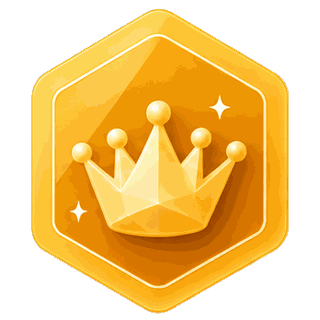
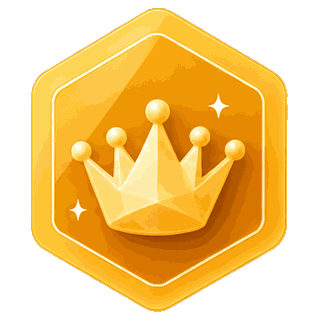
Every badge is now the same hexagon, and the cut is a script
── The second sheet was drawing a narrower hexagon ──

Measured off the shipped PNGs rather than the crop numbers: sheet 1 renders the
badge at 257 x 304 and sheet 2 at 246 x 300. That is 4.6% narrower at the same
height, and in a grid it reads exactly as it was described - the second ten
looked stretched vertically.

There was a second, smaller version of the same problem hiding inside each
sheet: within sheet 1 the badges ranged 253 to 259 wide.

So the silhouette is measured per badge and resampled to ONE canonical box,
257 x 304 inside a 320px square. Verified after: all twenty are exactly 257
wide, and the 1px spread in height is the alpha threshold catching an
antialiased tip, not geometry.

257 x 304 is an aspect of 0.845 where a regular hexagon is 0.866. Keeping sheet
1's own measurement rather than snapping to the maths: 2.4% is below what
anyone can see, and matching the art that was signed off on matters more than
being correct about hexagons.

── The cut is scripts/cut-badges.py now ──

It has been run three times and given a different answer each time, which is
the argument for it existing. It also carries the reason each of the three
differences exists, because none of them are guessable from the code:

  - sheet 1 cuts on edge magnitude, because it came back on a smooth dark
    bloom and the badge boundary is hard against it;
  - sheet 2 cuts on saturation, because it came back on a PAINTED checkerboard
[…]

diff --git a/scripts/cut-badges.py b/scripts/cut-badges.py
@@ -1,0 +1,203 @@
+"""
+Cut the badge artwork out of the generated sheets.
+
+Run:  python scripts/cut-badges.py <sheet-1.png> <sheet-2.png>
+
+── Why this is a script and not a one-off ──
+
+It has been run three times and got a different answer each time, because the
+two sheets came back with different problems and the third run had to make
+them agree with each other. That is exactly the thing worth keeping.
+
+── The two sheets failed differently ──
+
+Neither came back transparent, and the same recipe does not cut both.
+
+Sheet 1 arrived on a dark coloured BLOOM. The badge has a hard boundary and the
+bloom is smooth, so it cuts on edge magnitude.
+
+Sheet 2 arrived on a PAINTED checkerboard - the model drew the transparency
+pattern instead of leaving the alpha empty. Every checker square has an edge,
+so sheet 1's method finds nothing. It cuts on saturation instead: measured, the
+checkerboard runs 1-2 and the badge bodies 44-132.
+
+Both then take the span between the first and last hit in every row and every
+column and intersect the two. A hexagon is convex, so that describes it exactly
+- including the real rounded tips, which a hand-built polygon kept clipping -
+and it fills back in the parts that are deliberately near-white and would
+otherwise punch holes in their own badge: the coin stack, the target's pale
+rings, the diamond.
+
+── Sheet 2 needs an erosion and sheet 1 does not ──
+
+On a dark bloom the antialiased rim blends toward black, so the leftover fringe
+is invisible on a dark UI. On a near-white checkerboard the same fringe is
+BRIGHT - measured at luminance 238 against a 151 body - and reads as a halo
+around every badge. Eroding removes the blended ring rather than trying to
+unmix it. Measured at 0, 2, 3 and 4: at 3 the bleed is gone and the first
+surviving pixel is the badge's own frosted rim.
+
+── One canonical box, which is the point of the third run ──
+
+The sheets do not draw the badge at the same proportions. Sheet 1 came out
+257 x 304 and sheet 2 246 x 300 - 4.6% narrower - and in a grid that reads as
+the second set being stretched vertically, which is what got noticed.
+
+So the silhouette is measured per badge and resampled to ONE box. That also
+irons out the 6px of variation between badges within a sheet. Nothing here
+depends on the sheets being consistent, which is just as well, because they
+are not.
+"""
+import os
+import sys
+
+import numpy as np
+from PIL import Image, ImageFilter
+
+OUT = os.path.join('src', 'assets', 'badges')
+
+# Reading order of each sheet, left to right and top row first.
+SHEET1 = ['first-peso', 'seven-days', 'century', 'under-budget', 'green-month',
+          'goal-funded', 'debt-cleared', 'on-autopilot', 'diversified', 'six-figures']
+SHEET2 = ['thirty-days', 'five-hundred', 'year-one', 'steady-three', 'budget-master',
+          'no-spend-week', 'rainy-day', 'debt-free', 'three-goals', 'seven-figures']
+
+# The canonical rendered badge, inside a 320px square.
+#
+# 257 x 304 is sheet 1's own measured average, kept because that set is the one
+# the proportions were signed off on. It is an aspect of 0.845 against a regular
+# hexagon's 0.866 - a 2.4% difference, which is below what anyone can see, and
+# matching the existing art matters more than matching the maths.
+CANVAS = 320
+BADGE_W, BADGE_H = 257, 304
+
+SS = 4          # supersample factor for the mask's antialiasing
+FINAL_COLORS = 255   # one palette slot is reserved for full transparency
+
+
+def find_badges(mask, rows=2, cols=5, min_run=40):
+    """Locate each badge as a run of mask in the row band, then in the column.
+
+    Scanned globally rather than per grid cell: the badges on sheet 2 sit only
+    19px apart and several touch their nominal cell boundary, so slicing the
+    image into fifths finds pieces of two badges in one cell.
+    """
+    def runs(counts):
+        on = counts > 3
+        out, start = [], None
+        for i, hit in enumerate(on):
+            if hit and start is None:
+                start = i
+            elif not hit and start is not None:
+                if i - start >= min_run:
+                    out.append((start, i - 1))
+                start = None
+        if start is not None and len(on) - start >= min_run:
+            out.append((start, len(on) - 1))
+        return out
+
+    bands = runs(mask.sum(axis=1))
+    if len(bands) != rows:
+        raise SystemExit(f'expected {rows} row bands, found {len(bands)}')
+
+    boxes = []
+    for y0, y1 in bands:
+        spans = runs(mask[y0:y1 + 1].sum(axis=0))
+        if len(spans) != cols:
+            raise SystemExit(f'expected {cols} badges in a row, found {len(spans)}')
+        for x0, x1 in spans:
+            ys = np.where(mask[y0:y1 + 1, x0:x1 + 1].sum(axis=1) > 3)[0]
+            boxes.append((x0, y0 + ys[0], x1, y0 + ys[-1]))
+    return boxes
+
+
+def coarse_mask(rgb, method):
+    """Where the badges are, roughly - enough to locate them on the sheet."""
+    a = rgb.astype(np.float32)
+    if method == 'saturation':
+        return (a.max(axis=2) - a.min(axis=2)) > 12
+    grey = a.mean(axis=2)
+    ex = np.abs(np.diff(grey, axis=1, prepend=grey[:, :1]))
+    ey = np.abs(np.diff(grey, axis=0, prepend=grey[:1, :]))
+    return (ex + ey) > 14
+
+
+def silhouette(tile_rgb, method, erode):
+    """The badge's exact outline, as a boolean mask. See the module note."""
+    a = tile_rgb.astype(np.float32)
+    if method == 'saturation':
+        hit = (a.max(axis=2) - a.min(axis=2)) > 10
+    else:
+        grey = a.mean(axis=2)
+        ex = np.abs(np.diff(grey, axis=1, prepend=grey[:, :1]))
+        ey = np.abs(np.diff(grey, axis=0, prepend=grey[:1, :]))
+        hit = (ex + ey) > 12
+
+    h, w = hit.shape
+    rows = np.zeros_like(hit)
+    cols = np.zeros_like(hit)
+    for y in range(h):
+        xs = np.where(hit[y])[0]
+        if len(xs) >= 2:
+            rows[y, xs[0]:xs[-1] + 1] = True
+    for x in range(w):
+        ys = np.where(hit[:, x])[0]
+        if len(ys) >= 2:
+            cols[ys[0]:ys[-1] + 1, x] = True
+
+    img = Image.fromarray(((rows & cols) * 255).astype(np.uint8), 'L')
+    if erode:
+        img = img.filter(ImageFilter.MinFilter(erode * 2 + 1))
+    return img
+
+
+def cut_sheet(path, keys, method, erode, pad=14):
+    im = Image.open(path).convert('RGB')
+    rgb = np.asarray(im)
+    boxes = find_badges(coarse_mask(rgb, method))
+
+    for key, (x0, y0, x1, y1) in zip(keys, boxes):
+        # Pad the crop so the erosion and the blur have room to work in, and
+        # clamp to the sheet so a badge near the edge does not shift.
+        cx0, cy0 = max(0, x0 - pad), max(0, y0 - pad)
+        cx1, cy1 = min(im.width, x1 + pad + 1), min(im.height, y1 + pad + 1)
+        tile = im.crop((cx0, cy0, cx1, cy1))
+
+        m = silhouette(np.asarray(tile), method, erode)
+        w, h = m.size
+        m = (m.resize((w * SS, h * SS), Image.NEAREST)
+              .filter(ImageFilter.GaussianBlur(SS * 0.7))
+              .resize((w, h), Image.LANCZOS))
+        # Push the mid greys to opaque so the rim keeps its full colour, and
+        # clip the tail so no background survives as a faint halo.
+        alpha = np.clip((np.asarray(m).astype(np.float32) - 90) * (255 / 110), 0, 255)
+
+        cut = tile.convert('RGBA')
+        cut.putalpha(Image.fromarray(alpha.astype(np.uint8), 'L'))
+
+        # Trim to the silhouette, then resample to the canonical box. This is
+        # what makes every badge the same size regardless of how the sheet drew
+        # it - see the module note.
+        ys, xs = np.where(np.asarray(cut)[:, :, 3] > 40)
+        cut = cut.crop((xs.min(), ys.min(), xs.max() + 1, ys.max() + 1))
+        cut = cut.resize((BADGE_W, BADGE_H), Image.LANCZOS)
+
+        out = Image.new('RGBA', (CANVAS, CANVAS), (0, 0, 0, 0))
+        out.paste(cut, ((CANVAS - BADGE_W) // 2, (CANVAS - BADGE_H) // 2), cut)
+        # Each badge is one hue family, so 255 levels shows no banding - checked
+        # side by side against the un-quantised original.
+        out = out.quantize(colors=FINAL_COLORS, method=Image.FASTOCTREE).convert('RGBA')
+
+        dest = os.path.join(OUT, key + '.png')
+        out.save(dest, optimize=True)
+        print(f'{key:15s} {os.path.getsize(dest) // 1024:3d} KB')
+
+
+if __name__ == '__main__':
+    if len(sys.argv) != 3:
+        raise SystemExit(__doc__.strip().splitlines()[2])
+    os.makedirs(OUT, exist_ok=True)
+    print('sheet 1 - cut on edge magnitude, no erosion')
+    cut_sheet(sys.argv[1], SHEET1, method='edge', erode=0)
+    print('sheet 2 - cut on saturation, eroded 3px')
+    cut_sheet(sys.argv[2], SHEET2, method='saturation', erode=3)

diff --git a/BADGES.md b/BADGES.md
@@ -444,54 +444,48 @@ and the silhouette is the thing that makes ten badges read as one set.
 
 ## 4. How the art got in, in case you redo it
 
+It is a script now, because it has been run three times and got a different
+answer each time:
+
+```bash
+python scripts/cut-badges.py "<sheet-1.png>" "<sheet-2.png>"
+```
+
 **Neither sheet came back transparent, and they failed differently** — which is
-why there is no single cutting recipe.
+why there is no single recipe.
 
-**The first sheet** arrived on a dark coloured bloom. The badge has a hard
-boundary and the bloom is smooth, so it was cut on edge magnitude: threshold
-it, then take each row's and each column's span between the first and last
-strong edge. A hexagon is convex, so those two spans intersect to give the
-outline exactly — including the real rounded tips, which a hand-built polygon
-kept clipping.
+**Sheet 1** arrived on a dark coloured bloom. The badge has a hard boundary and
+the bloom is smooth, so it cuts on edge magnitude.
 
-**The second sheet** arrived on a *painted* checkerboard: ChatGPT drew the
-transparency pattern instead of leaving the alpha empty. Every checker square
-has an edge, so the first method was useless. Saturation replaced it — measured,
-the checkerboard runs 1–2 and the badge bodies 44–132 — with the same row and
-column spans on top, because the coin stack, the target's pale rings and the
-diamond are deliberately near-white and would otherwise punch holes in their
-own badges.
+**Sheet 2** arrived on a *painted* checkerboard: the model drew the transparency
+pattern instead of leaving the alpha empty. Every checker square has an edge, so
+sheet 1's method finds nothing. It cuts on saturation instead — measured, the
+checkerboard runs 1–2 and the badge bodies 44–132.
 
-It also needed a **3px erosion** that the first did not. On a dark bloom the
-antialiased rim blends toward black and the leftover fringe is invisible on a
-dark UI; on a near-white checkerboard the same fringe is *bright*, measured at
-luminance 238 against a 151 body, and it read as a halo around every badge.
-Eroding removes the blended ring rather than trying to unmix it. 3px off a
-341px badge is under 1%.
+Both then take the span between the first and last hit in every row and every
+column and intersect the two. A hexagon is convex, so that describes it exactly,
+including the real rounded tips — and it fills back in the parts that are
+deliberately near-white and would otherwise punch holes in their own badge: the
+coin stack, the target's pale rings, the diamond.
 
-Crop windows are not square, and not the same: 296 × 348 for the first sheet,
-292 × 358 for the second. The columns are only ~300 and ~299 apart, so anything
-wider drags the neighbour into the mask. The heights differ because the badges
-do (332 vs 341), and each square is sized so the badge fills the same share of
-it — otherwise the two sets would render at different sizes in a grid that only
-knows the file is square.
+**Sheet 2 also needs a 3px erosion and sheet 1 does not.** On a dark bloom the
+antialiased rim blends toward black, so the leftover fringe is invisible on a
+dark UI. On a near-white checkerboard the same fringe is *bright* — measured at
+luminance 238 against a 151 body — and reads as a halo around every badge.
+Eroding removes the blended ring rather than trying to unmix it.
 
-Files land at 320 × 320, quantised to 255 colours: 625 KB for all twenty, no
-banding, since each badge is a single hue family.
+**And every badge is resampled to one canonical box**, 257 × 304 inside a 320px
+square. The sheets do not draw the badge at the same proportions: sheet 1 came
+out 257 × 304 and sheet 2 246 × 300, 4.6% narrower, which in a grid reads as the
+second set being stretched vertically. Measuring each silhouette and resampling
+it also irons out the 6px of variation *within* a sheet. Nothing depends on the
+sheets being consistent, which is just as well.
 
-Filenames are the badge keys, in the prompt's reading order:
+257 × 304 is an aspect of 0.845 against a regular hexagon's 0.866 — a 2.4%
+difference, below what anyone can see. It is sheet 1's own measured average,
+kept because that is the set the proportions were signed off on.
 
-```
-first-peso   seven-days   century      under-budget  green-month
-goal-funded  debt-cleared on-autopilot diversified   six-figures
-```
-
-**No code change is needed to swap any of them.** `BadgeMark` picks up whatever
-is in `src/assets/badges/` at build time through `import.meta.glob`, keyed by
-filename. A badge with a file uses it; one without falls back to its drawn
-hexagon, so a partial set is fine.
-
----
+625 KB for all twenty, quantised to 255 colours, no banding.
 
 ## 5. Where everything is
 
@@ -505,7 +499,8 @@ hexagon, so a partial set is fine.
 | `src/components/BadgeCard.jsx` | The centred card: the flip, the sway, the shine, the burst |
 | `src/components/BadgeUnlocked.jsx` | The unlock queue, feeding that card |
 | `src/components/Confetti.jsx` | Both bursts — falling, and thrown outward from a point |
-| `src/assets/badges/` | The ten rendered PNGs |
+| `src/assets/badges/` | The twenty rendered PNGs |
+| `scripts/cut-badges.py` | Cuts them out of the generated sheets |
 | `src/pages/Badges.jsx` | The page at `/badges` |
 | `src/db/db.js` (v10) | The local `badges` table |
 | `src/lib/sync.js` | `badgeToRow`, `pullBadges`, and the two `optionalSync` calls |
